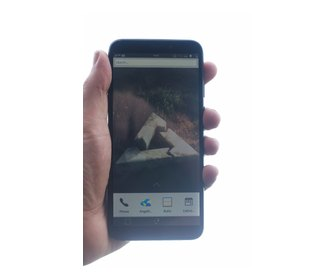
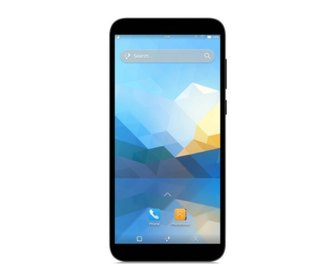
Better images for Pixel 3a, Mi A1, PinePhone Pro, OnePlus 6T and TouchPad
Replaces amateur photographs with manufacturer product renders, takes the
PinePhone Pro shot from PINE64, and reuses the webOS Internals wiki
artwork for the HP TouchPad. Credits updated.

Claude-Session: https://claude.ai/code/session_01WbhVa39XQw1Vg5nf3DgH4T

diff --git a/index.html b/index.html
@@ -347,7 +347,7 @@ footer a{color:var(--soft)}
   <div class="wrap">
     <div>LuneOS is free software, built by the webOS Ports community.</div>
     <div><a href="https://wiki.webos-internals.org/">webOS Internals</a> — documentation for Palm-era hardware</div>
-    <p class="credits">Device images from Wikimedia Commons and Wikipedia, under CC licences — HP TouchPad by Ben Miller (CC BY 2.0), PinePhone by ICCCC (CC0), BlackBerry Key2 (CC BY-SA 4.0), Google Pixel 3a by Noël (CC BY 4.0), Prométhée (CC BY-SA 3.0); RabbitMeow (CC BY-SA 4.0); Google Android (CC BY 2.5); Rohit Thakur (CC BY 3.0); All uploaded by User MartijnBraam (CC BY-SA 4.0); MartijnBraam (CC BY-SA 4.0); LOOOKI (CC BY-SA 4.0); Riski394 (CC BY-SA 4.0). Images resized and placed on white. Photographs of the Zinwa Q25, Mecha Comet, FuriLabs FLX1s and GreenTouch Mind Phone are the manufacturers’ own product images, as are the Google Pixel and Xiaomi Redmi renders.</p>
+    <p class="credits">Device images are manufacturers’ product renders, except: <a href="https://commons.wikimedia.org/wiki/File:Pinephone_betaedition.png">PinePhone</a> by ICCCC (CC0), <a href="https://commons.wikimedia.org/wiki/File:BlackBerry%C2%AE_KEY2.png">BlackBerry Key2</a> (CC BY-SA 4.0), Samsung Galaxy A3 by Prométhée (CC BY-SA 3.0), Nexus 5 by Google Android (CC BY 2.5), Redmi Note 4 by Riski394 (CC BY-SA 4.0), Poco X3 by LOOOKI (CC BY-SA 4.0) and PineTab2 by MartijnBraam (CC BY-SA 4.0), all from Wikimedia Commons; the HP TouchPad artwork comes from the webOS Internals wiki. Images resized and placed on white.</p>
   </div>
 </footer>
 
